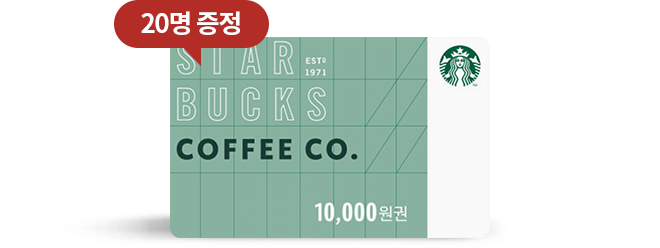
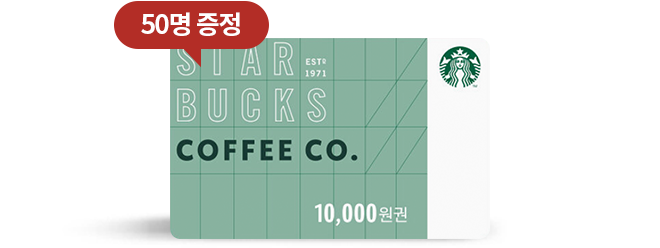
텍스트 수정

diff --git a/index.html b/index.html
@@ -82,24 +82,24 @@
                 <p class="g-tit">경품</p>
                 <ul class="gift-list">
                   <li>
-                    <p class="c">1명<br>증정</p>
+                    <p class="c">2명<br>증정</p>
                     <span></span>
                     <div>
-                      <em>1</em><p>M1 EVO<br> 스마트 헬멧 세트<br> (2대) 2명 증정</p>
+                      <em>1</em><p>M1 EVO<br> 스마트 헬멧 세트<br class="mo">(2대)</p>
                     </div>
                   </li>
                   <li>
-                    <p class="c">3명<br>증정</p>
+                    <p class="c">5명<br>증정</p>
                     <span></span>
                     <div>
-                      <em>2</em><p>RUMBA (룸바)<br> 스마트 헬멧<br> (1대) 5명 증정</p>
+                      <em>2</em><p>RUMBA (룸바)<br> 스마트 헬멧<br class="mo">(1대)</p>
                     </div>
                   </li>
                   <li>
-                    <p class="c">20명<br>증정</p>
+                    <p class="c">100명<br>증정</p>
                     <span></span>
                     <div>
-                      <em>3</em><p>스타벅스<br> 아메리카노<br class="mo"> 기프티콘<br>100명 증정 </p>
+                      <em>3</em><p>스타벅스<br class="mo"> 아메리카노<br> 기프티콘</p>
                     </div>
                   </li>
                 </ul>
@@ -115,7 +115,7 @@
           <div class="ar-inner">
             <p class="evt-num">EVENT<br><s>2</s></p>
             <h3 class="evt-tit"><em>‘세상과 나를 이어주는 세나’</em><br class="mo"> 이벤트를<br class="web"> SNS에 공유해주세요!</h3>
-            <p class="txt">SNS에 필수 해시태그와 함께 이벤트를 공유하신 분 중<br class="mo"> <em>20명</em>을 추첨하여<br class="web"> <em>스타벅스 1만원 기프티콘</em>을 드립니다!</p>
+            <p class="txt">SNS에 필수 해시태그와 함께 이벤트를 공유하신 분 중<br class="mo"> <em>50명</em>을 추첨하여<br class="web"> <em>스타벅스 1만원 기프티콘</em>을 드립니다!</p>
             <div class="date-wrap">
               <p class="txt date"><s>이벤트 기간</s> 2022년 6월 20일 ~ 2022년 7월 17일</p>
               <p class="txt date"><s>당첨자 발표</s> 2022년 7월 25일</p>
@@ -204,7 +204,7 @@
           <div class="ar-inner">
             <p class="evt-num">EVENT<br><s>3</s></p>
             <h3 class="evt-tit"><em>세나테크놀로지</em> 페이스북&<br class="mo">인스타그램<br class="web"> <em>팔로우</em>하고,<br class="mo"> <em>선물</em>도 받으세요!</h3>
-            <p class="txt">이벤트에 참여해주신 분들 중 <em>50명</em>을 추첨하여<br class="mo"> <em>GS편의점 2천원 상품권</em>을 드립니다!</p>
+            <p class="txt">이벤트에 참여해주신 분들 중 <em>100명</em>을 추첨하여<br class="mo"> <em>GS편의점 2천원 상품권</em>을 드립니다!</p>
             <div class="date-wrap">
               <p class="txt date"><s>이벤트 기간</s> 2022년 6월 20일 ~ 2022년 7월 17일</p>
               <p class="txt date"><s>당첨자 발표</s> 2022년 7월 25일</p>

diff --git a/css/style-pc.less b/css/style-pc.less
@@ -169,7 +169,7 @@
                   //.evt-rule .list:nth-child(2) ul li:last-child .li-inner p:nth-of-type(1) { .ml(0); }
                 }
               }
-              .gift { .wh(421,183); .contain('../images/pc/evt2_gift.png'); }
+              .gift { .wh(421,183); .contain('../images/pc/evt2_gift.jpg'); }
               .evt-rule { .p(56,0,30);
                 .list { .pb(80);
                   &:after { .cnt; .wh(23,32); .contain('../images/pc/arrow-r.png'); .lt(50%,85); }
@@ -226,7 +226,7 @@
                 &.cont-inner1 { .fr; }
                 &.cont-inner2 { .fl; .w(740); }
               }
-              .gift { .wh(422,190); .contain('../images/pc/evt3_gift.png'); .mt(43); }
+              .gift { .wh(422,190); .contain('../images/pc/evt3_gift.jpg'); .mt(43); }
               .g-t { .mt(20); }
               .evt-rule {
                 .flow { .rel;

diff --git a/css/style-pc.css b/css/style-pc.css
@@ -567,7 +567,7 @@
     width: 23.38888889rem;
     height: 10.16666667rem;
     background-repeat: no-repeat;
-    background-image: url('../images/pc/evt2_gift.png');
+    background-image: url('../images/pc/evt2_gift.jpg');
     background-size: contain;
   }
   .container .wrap section article.evt2 .cont .evt-rule {
@@ -743,7 +743,7 @@
     width: 23.44444444rem;
     height: 10.55555556rem;
     background-repeat: no-repeat;
-    background-image: url('../images/pc/evt3_gift.png');
+    background-image: url('../images/pc/evt3_gift.jpg');
     background-size: contain;
     margin-top: 2.38888889rem;
   }
